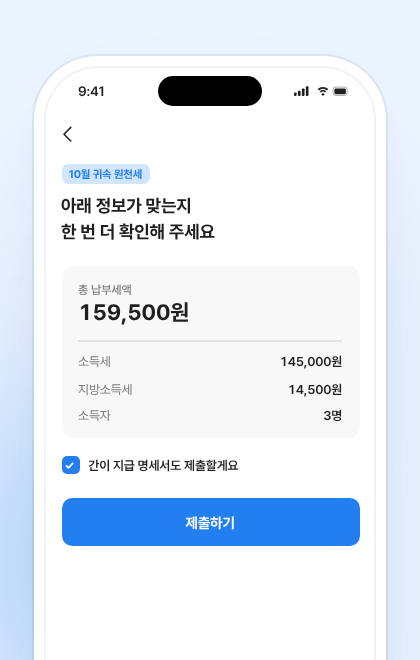
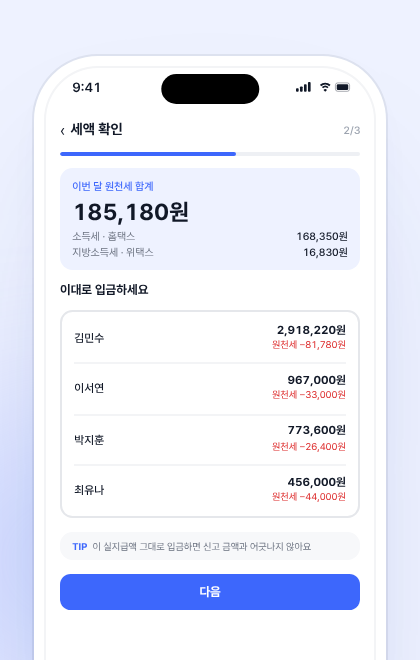
Rebuild mockups from the real app screens in the Figma design file
Screens 01 home through 05 filing complete are reproduced at 375px with
the file's own spacing, colors and type sizes, then zoomed into the
phone frames. Floating cards and backgrounds move to the file's blue.

Claude-Session: https://claude.ai/code/session_01XeTdt5mgBf16amy12iLBWn

diff --git a/images/_source/frames.html b/images/_source/frames.html
@@ -1,199 +1,199 @@
 <!doctype html><html lang="ko"><head><meta charset="utf-8">
 <link rel="stylesheet" href="../../fonts/pretendard/pretendardvariable-dynamic-subset.css">
 <style>
-/* 앱 화면은 실제 원클릭 원천세(oneclicktax.kr) 디자인 토큰으로 390px 기준으로 그린 뒤 zoom으로 폰에 맞춰 줄입니다.
-   그래서 글자 크기 비율이 실제 앱과 같습니다. 바깥 그래픽은 연파랑 단색 + 글래스모피즘 카드. */
-:root{--g900:#1F1F23;--g800:#3C3C42;--g700:#5A5A61;--g600:#78787F;--g500:#98989F;--g400:#B4B4BB;--g300:#CDCDD2;--g200:#E2E2E5;--g100:#F2F2F3;--g50:#F8F8F8;
---blue:#237EF0;--b100:#D1E5FF;--b50:#EBF4FF;--green:#00B235;--kakao:#FFD11B;--klabel:#493D0F}
+/* 앱 화면은 원클릭 원천세 Figma '화면 디자인' 페이지의 01~05 화면(375×812)을 값 그대로 옮겼습니다.
+   (fileKey 9Lp6P6A8XeNOBMYwLeIahE, node 38:9568 / 38:9601 / 38:9650 / 38:9698 / 38:9755)
+   375px 기준으로 그린 뒤 zoom으로 폰 크기에 맞춥니다. 상태바만 목업용으로 추가했습니다. */
+:root{--ink:#111827;--sub:#6B7280;--faint:#9CA3AF;--line:#E5E7EB;--div:#F3F4F6;--soft:#F7F8FA;--track:#EEF0F4;
+--blue:#3D67FC;--bwash:#EEF2FF;--bpale:#D6DFFF;--green:#059669;--gwash:#ECFDF5;--teal:#0F766E;--twash:#CCFBF1;--amber:#B45309;--awash:#FEF3C7;--red:#DC2626;
+--bg:#EEF2FF;--sky:#A9BCFF}
 *{box-sizing:border-box;margin:0;padding:0}
-body{font-family:"Pretendard Variable",Pretendard,sans-serif;color:var(--g900);background:#999;-webkit-font-smoothing:antialiased;display:flex;flex-wrap:wrap;align-items:flex-start}
-.f{position:relative;overflow:hidden;margin:20px;flex-shrink:0;background:var(--b50)}
+body{font-family:"Pretendard Variable",Pretendard,sans-serif;color:var(--ink);background:#999;-webkit-font-smoothing:antialiased;display:flex;flex-wrap:wrap;align-items:flex-start}
+.f{position:relative;overflow:hidden;margin:20px;flex-shrink:0;background:var(--bg)}
 .blob{position:absolute;border-radius:50%;filter:blur(40px)}
-.num{font-variant-numeric:tabular-nums}
 /* phone */
-.ph{position:absolute;background:#fff;box-shadow:0 0 0 1px rgba(20,40,80,.07),0 40px 80px -30px rgba(20,60,130,.25),0 12px 24px -12px rgba(20,60,130,.10)}
-.scr{position:relative;height:100%;overflow:hidden;background:#fff;box-shadow:inset 0 0 0 1px var(--g100)}
-/* ===== app (390 base) ===== */
-.app{width:390px;letter-spacing:-.01em}
-.st{height:54px;display:flex;align-items:center;justify-content:space-between;padding:6px 30px 0 40px;font-size:16px;font-weight:600;position:relative}
-.st .di{position:absolute;left:50%;top:11px;transform:translateX(-50%);width:122px;height:36px;border-radius:20px;background:#000}
-.nb{height:52px;display:flex;align-items:center;justify-content:space-between;padding:0 16px}
-.bd{padding:0 20px}
-.h21{font-size:21px;font-weight:700;line-height:1.45}
-.p15{font-size:15px;color:var(--g600);line-height:1.5}
-.lb{font-size:13px;color:var(--g600);font-weight:500}
+.ph{position:absolute;background:#fff;box-shadow:0 0 0 1px rgba(17,24,39,.07),0 40px 80px -30px rgba(40,60,160,.25),0 12px 24px -12px rgba(40,60,160,.10)}
+.scr{position:relative;height:100%;overflow:hidden;background:#fff;box-shadow:inset 0 0 0 1px var(--div)}
+/* ===== app (375 base, Figma 값 그대로) ===== */
+.app{width:375px;line-height:normal;font-variant-numeric:tabular-nums}
+.st{height:44px;display:flex;align-items:center;justify-content:space-between;padding:4px 26px 0 32px;font-size:15px;font-weight:600;position:relative}
+.st .di{position:absolute;left:50%;top:10px;transform:translateX(-50%);width:110px;height:32px;border-radius:18px;background:#000}
+.pg{display:flex;flex-direction:column;gap:14px;padding:16px 18px 28px}
 .row{display:flex;justify-content:space-between;align-items:center}
-.btn{height:56px;border-radius:12px;background:var(--blue);color:#fff;font-size:17px;font-weight:700;display:flex;align-items:center;justify-content:center;gap:8px}
-.chip{display:inline-flex;align-items:center;gap:4px;font-size:13px;font-weight:700;color:var(--blue);background:var(--b100);border-radius:8px;padding:5px 9px}
-.card{border-radius:14px;background:var(--g50);padding:18px 20px}
-.seg{display:flex;background:var(--g100);border-radius:12px;padding:4px}
-.seg div{flex:1;height:42px;border-radius:9px;display:grid;place-items:center;font-size:15px;font-weight:600;color:var(--g600)}
-.seg .on{background:#fff;color:var(--g900);font-weight:700;box-shadow:0 1px 3px rgba(0,0,0,.08)}
-.fld{border:1px solid var(--g200);border-radius:12px;height:54px;display:flex;align-items:center;padding:0 16px;font-size:17px;font-weight:600}
-.fld.on{border:1.5px solid var(--blue)}
-.ck{width:22px;height:22px;border-radius:6px;background:var(--blue);display:grid;place-items:center;color:#fff;flex-shrink:0}
-/* ===== glass ===== */
-.glass{position:absolute;background:rgba(255,255,255,.58);-webkit-backdrop-filter:blur(18px) saturate(170%);backdrop-filter:blur(18px) saturate(170%);
- border:1px solid rgba(255,255,255,.85);box-shadow:0 24px 48px -20px rgba(20,60,130,.28),0 2px 6px rgba(20,60,130,.05),inset 0 1px 0 rgba(255,255,255,.95)}
-.obj{position:absolute;filter:drop-shadow(0 16px 20px rgba(20,60,130,.14))}
+.col{display:flex;flex-direction:column}
+.b{font-weight:700}.m{font-weight:500}.r{font-weight:400}
+.ink{color:var(--ink)}.sub{color:var(--sub)}.faint{color:var(--faint)}.blue{color:var(--blue)}.red{color:var(--red)}
+.card{background:#fff;border:1px solid var(--line);border-radius:14px;padding:14px;display:flex;flex-direction:column}
+.soft{background:var(--soft);border-radius:14px;padding:14px;display:flex;flex-direction:column}
+.hr{height:1px;background:var(--div)}
+.btn{background:var(--blue);border-radius:12px;padding:13px 0;text-align:center;color:#fff;font-size:14px;font-weight:700}
+.tag{display:inline-block;align-self:flex-start;border-radius:99px;padding:3px 8px;font-size:11px;font-weight:500}
+.t-blue{background:var(--bwash);color:var(--blue)}.t-teal{background:var(--twash);color:var(--teal)}.t-amber{background:var(--awash);color:var(--amber)}.t-green{background:var(--gwash);color:var(--green)}.t-gray{background:var(--div);color:var(--sub)}
+.head{display:flex;justify-content:space-between;align-items:center}
+.head .l{display:flex;gap:6px;align-items:center;color:var(--ink)}
+.track{height:5px;border-radius:99px;background:var(--track);position:relative;overflow:hidden}
+.track i{position:absolute;left:0;top:0;height:5px;border-radius:99px;background:var(--blue)}
+/* ===== glass (목업용 떠 있는 카드, 같은 토큰) ===== */
+.glass{position:absolute;background:rgba(255,255,255,.62);-webkit-backdrop-filter:blur(18px) saturate(170%);backdrop-filter:blur(18px) saturate(170%);
+ border:1px solid rgba(255,255,255,.88);box-shadow:0 24px 48px -20px rgba(40,60,160,.28),0 2px 6px rgba(40,60,160,.05),inset 0 1px 0 rgba(255,255,255,.95)}
+.obj{position:absolute;filter:drop-shadow(0 16px 20px rgba(40,60,160,.14))}
 </style></head><body>
 <svg width="0" height="0" style="position:absolute"><defs>
- <symbol id="stat" viewBox="0 0 64 12"><g fill="#1F1F23"><rect x="0" y="7" width="3" height="4" rx="1"/><rect x="4.5" y="5" width="3" height="6" rx="1"/><rect x="9" y="2.5" width="3" height="8.5" rx="1"/><rect x="13.5" y="0" width="3" height="11" rx="1"/>
+ <symbol id="stat" viewBox="0 0 64 12"><g fill="#111827"><rect x="0" y="7" width="3" height="4" rx="1"/><rect x="4.5" y="5" width="3" height="6" rx="1"/><rect x="9" y="2.5" width="3" height="8.5" rx="1"/><rect x="13.5" y="0" width="3" height="11" rx="1"/>
  <path d="M27 3.2a9 9 0 0 1 12 0l-1.4 1.5a7 7 0 0 0-9.2 0zM29.2 5.6a5.6 5.6 0 0 1 7.6 0l-1.4 1.5a3.6 3.6 0 0 0-4.8 0zM33 11l-2-2.1a2.8 2.8 0 0 1 4 0z"/>
- <rect x="44.5" y="1" width="16" height="9.5" rx="2.6" fill="none" stroke="#1F1F23" stroke-opacity=".4" stroke-width="1"/><rect x="46" y="2.5" width="13" height="6.5" rx="1.4"/></g></symbol>
- <symbol id="chk" viewBox="0 0 14 14"><path d="M3 7.3l2.6 2.6L11 4.4" fill="none" stroke="currentColor" stroke-width="2.2" stroke-linecap="round" stroke-linejoin="round"/></symbol>
- <symbol id="back" viewBox="0 0 24 24"><path d="M15 4l-8 8 8 8" fill="none" stroke="#1F1F23" stroke-width="1.8" stroke-linecap="round" stroke-linejoin="round"/></symbol>
- <symbol id="x" viewBox="0 0 24 24"><path d="M5 5l14 14M19 5L5 19" fill="none" stroke="#1F1F23" stroke-width="1.8" stroke-linecap="round"/></symbol>
- <symbol id="arr" viewBox="0 0 24 24"><path d="M9 5l7 7-7 7" fill="none" stroke="#B4B4BB" stroke-width="2" stroke-linecap="round" stroke-linejoin="round"/></symbol>
- <symbol id="kakao" viewBox="0 0 20 18"><path d="M10 1C4.8 1 1 4.2 1 8.1c0 2.5 1.6 4.7 4.1 5.9l-1 3.7 4.2-2.8c.6.1 1.1.1 1.7.1 5.2 0 9-3.2 9-7.1S15.2 1 10 1z" fill="#1F1F23"/></symbol>
+ <rect x="44.5" y="1" width="16" height="9.5" rx="2.6" fill="none" stroke="#111827" stroke-opacity=".4" stroke-width="1"/><rect x="46" y="2.5" width="13" height="6.5" rx="1.4"/></g></symbol>
 </defs></svg>
+
+<template id="s01"><!-- 01 홈 -->
+<div class="app"><div class="st"><span>9:41</span><i class="di"></i><svg width="64" height="12"><use href="#stat"/></svg></div>
+<div class="pg">
+ <div class="row"><span class="b" style="font-size:20px">원천세</span><span class="m sub" style="font-size:12px">2026년 7월</span></div>
+ <div style="background:var(--blue);border-radius:14px;padding:16px 14px;display:flex;flex-direction:column;gap:5px"><span class="b" style="font-size:15px;color:#fff">6월 귀속분 신고 마감 D-5</span><span class="r" style="font-size:12px;color:var(--bpale)">7월 10일(금)까지 신고·납부해야 해요</span></div>
+ <div class="card" style="gap:10px">
+  <span class="m sub" style="font-size:12px">이번 달 낼 원천세</span><span class="b" style="font-size:26px">185,180원</span><div class="hr"></div>
+  <div class="row" style="font-size:12px"><span class="r sub">소득세 · 홈택스</span><span class="m">168,350원</span></div>
+  <div class="row" style="font-size:12px"><span class="r sub">지방소득세 · 위택스</span><span class="m">16,830원</span></div>
+  <div class="row" style="font-size:12px"><span class="r sub">지급 대상</span><span class="m">4명</span></div>
+ </div>
+ <div class="btn">신고 시작하기</div>
+ <span class="b" style="font-size:14px">지난 신고</span>
+ <div class="soft" style="gap:10px">
+  <div class="row"><span class="m" style="font-size:12px">5월 귀속분</span><span class="tag t-green">신고·납부 완료</span></div>
+  <div style="height:1px;background:var(--line)"></div>
+  <div class="row"><span class="m" style="font-size:12px">4월 귀속분</span><span class="tag t-green">신고·납부 완료</span></div>
+ </div>
+</div></div></template>
+
+<template id="s02"><!-- 02 지급 내역 확인 -->
+<div class="app"><div class="st"><span>9:41</span><i class="di"></i><svg width="64" height="12"><use href="#stat"/></svg></div>
+<div class="pg">
+ <div class="head"><div class="l"><span class="r" style="font-size:18px">‹</span><span class="b" style="font-size:16px">지급 내역 확인</span></div><span class="m faint" style="font-size:12px">1/3</span></div>
+ <div class="track"><i style="width:99px"></i></div>
+ <span class="r sub" style="font-size:12px">6월에 지급한 내역이 맞는지 확인해 주세요</span>
+ <div class="card" style="gap:12px">
+  <div class="row"><div class="col" style="gap:5px"><span class="b" style="font-size:14px">김민수</span><span class="tag t-blue">근로소득</span></div><div class="col" style="gap:3px;align-items:flex-end"><span class="b" style="font-size:14px">3,000,000원</span><span class="r sub" style="font-size:11px">원천세 81,780원</span></div></div><div class="hr"></div>
+  <div class="row"><div class="col" style="gap:5px"><span class="b" style="font-size:14px">이서연</span><span class="tag t-teal">사업소득 3.3%</span></div><div class="col" style="gap:3px;align-items:flex-end"><span class="b" style="font-size:14px">1,000,000원</span><span class="r sub" style="font-size:11px">원천세 33,000원</span></div></div><div class="hr"></div>
+  <div class="row"><div class="col" style="gap:5px"><span class="b" style="font-size:14px">박지훈</span><span class="tag t-teal">사업소득 3.3%</span></div><div class="col" style="gap:3px;align-items:flex-end"><span class="b" style="font-size:14px">800,000원</span><span class="r sub" style="font-size:11px">원천세 26,400원</span></div></div><div class="hr"></div>
+  <div class="row"><div class="col" style="gap:5px"><span class="b" style="font-size:14px">최유나</span><span class="tag t-amber">기타소득 8.8%</span></div><div class="col" style="gap:3px;align-items:flex-end"><span class="b" style="font-size:14px">500,000원</span><span class="r sub" style="font-size:11px">원천세 44,000원</span></div></div>
+ </div>
+ <div style="border:1px dashed var(--blue);border-radius:14px;padding:10px 14px;text-align:center" class="m blue"><span style="font-size:13px">+ 지급 대상 추가</span></div>
+ <div class="btn">다음</div>
+</div></div></template>
+
+<template id="s03"><!-- 03 세액 확인 -->
+<div class="app"><div class="st"><span>9:41</span><i class="di"></i><svg width="64" height="12"><use href="#stat"/></svg></div>
+<div class="pg">
+ <div class="head"><div class="l"><span class="r" style="font-size:18px">‹</span><span class="b" style="font-size:16px">세액 확인</span></div><span class="m faint" style="font-size:12px">2/3</span></div>
+ <div class="track"><i style="width:198px"></i></div>
+ <div style="background:var(--bwash);border-radius:14px;padding:14px;display:flex;flex-direction:column;gap:5px">
+  <span class="m blue" style="font-size:12px">이번 달 원천세 합계</span><span class="b" style="font-size:26px">185,180원</span>
+  <div class="row" style="font-size:12px"><span class="r sub">소득세 · 홈택스</span><span class="m">168,350원</span></div>
+  <div class="row" style="font-size:12px"><span class="r sub">지방소득세 · 위택스</span><span class="m">16,830원</span></div>
+ </div>
+ <span class="b" style="font-size:14px">이대로 입금하세요</span>
+ <div class="card" style="gap:12px">
+  <div class="row"><span class="m" style="font-size:13px">김민수</span><div class="col" style="gap:3px;align-items:flex-end"><span class="b" style="font-size:13px">2,918,220원</span><span class="r red" style="font-size:11px">원천세 −81,780원</span></div></div><div class="hr"></div>
+  <div class="row"><span class="m" style="font-size:13px">이서연</span><div class="col" style="gap:3px;align-items:flex-end"><span class="b" style="font-size:13px">967,000원</span><span class="r red" style="font-size:11px">원천세 −33,000원</span></div></div><div class="hr"></div>
+  <div class="row"><span class="m" style="font-size:13px">박지훈</span><div class="col" style="gap:3px;align-items:flex-end"><span class="b" style="font-size:13px">773,600원</span><span class="r red" style="font-size:11px">원천세 −26,400원</span></div></div><div class="hr"></div>
+  <div class="row"><span class="m" style="font-size:13px">최유나</span><div class="col" style="gap:3px;align-items:flex-end"><span class="b" style="font-size:13px">456,000원</span><span class="r red" style="font-size:11px">원천세 −44,000원</span></div></div>
+ </div>
+ <div style="background:var(--soft);border-radius:14px;padding:10px 14px;display:flex;gap:6px;font-size:11px"><span class="b blue">TIP</span><span class="r sub">이 실지급액 그대로 입금하면 신고 금액과 어긋나지 않아요</span></div>
+ <div class="btn">다음</div>
+</div></div></template>
+
+<template id="s04"><!-- 04 신고서 확인 -->
+<div class="app"><div class="st"><span>9:41</span><i class="di"></i><svg width="64" height="12"><use href="#stat"/></svg></div>
+<div class="pg">
+ <div class="head"><div class="l"><span class="r" style="font-size:18px">‹</span><span class="b" style="font-size:16px">신고서 확인</span></div><span class="m faint" style="font-size:12px">3/3</span></div>
+ <div class="track"><i style="width:300px"></i></div>
+ <div class="soft" style="gap:6px;font-size:12px">
+  <div class="row"><span class="r sub">귀속연월</span><span class="m">2026.06</span></div>
+  <div class="row"><span class="r sub">지급연월</span><span class="m">2026.06</span></div>
+  <div class="row"><span class="r sub">신고 구분</span><span class="m">정기신고</span></div>
+ </div>
+ <div class="card" style="gap:12px">
+  <div class="row"><div class="col" style="gap:4px"><div style="display:flex;gap:6px;align-items:center"><span class="m" style="font-size:12px">근로소득 간이세액</span><span class="tag t-gray">A01</span></div><span class="r sub" style="font-size:11px">1명 · 지급 3,000,000원</span></div><span class="b" style="font-size:13px">74,350원</span></div><div class="hr"></div>
+  <div class="row"><div class="col" style="gap:4px"><div style="display:flex;gap:6px;align-items:center"><span class="m" style="font-size:12px">사업소득</span><span class="tag t-gray">A25</span></div><span class="r sub" style="font-size:11px">2명 · 지급 1,800,000원</span></div><span class="b" style="font-size:13px">54,000원</span></div><div class="hr"></div>
+  <div class="row"><div class="col" style="gap:4px"><div style="display:flex;gap:6px;align-items:center"><span class="m" style="font-size:12px">기타소득</span><span class="tag t-gray">A42</span></div><span class="r sub" style="font-size:11px">1명 · 지급 500,000원</span></div><span class="b" style="font-size:13px">40,000원</span></div><div class="hr"></div>
+  <div class="row"><div class="col" style="gap:4px"><div style="display:flex;gap:6px;align-items:center"><span class="b blue" style="font-size:12px">총합계</span><span class="tag t-blue">A99</span></div><span class="r sub" style="font-size:11px">4명 · 지급 5,300,000원</span></div><span class="b blue" style="font-size:13px">168,350원</span></div>
+ </div>
+ <span class="r sub" style="font-size:11px">홈택스 원천징수이행상황신고서와 같은 항목이라 그대로 옮겨 적을 수 있어요</span>
+ <div class="btn">신고서 제출하기</div>
+</div></div></template>
+
+<template id="s05"><!-- 05 신고 완료 · 납부 -->
+<div class="app"><div class="st"><span>9:41</span><i class="di"></i><svg width="64" height="12"><use href="#stat"/></svg></div>
+<div class="pg">
+ <div class="col" style="gap:8px;align-items:center;padding:16px 0 6px">
+  <div style="width:56px;height:56px;border-radius:28px;background:var(--gwash);display:grid;place-items:center" class="b"><span style="font-size:24px;color:var(--green)">✓</span></div>
+  <span class="b" style="font-size:18px">6월 귀속분 신고 완료</span><span class="r sub" style="font-size:12px">이제 세금 납부만 하면 끝이에요</span>
+ </div>
+ <div class="card" style="gap:10px">
+  <div class="row"><div class="col" style="gap:3px"><span class="b" style="font-size:13px">소득세 · 국세</span><span class="r sub" style="font-size:11px">홈택스 가상계좌</span></div><span class="b" style="font-size:14px">168,350원</span></div>
+  <div class="row"><span class="tag t-green">납부 완료</span><span class="r sub" style="font-size:11px">7월 5일 14:02</span></div>
+ </div>
+ <div class="card" style="gap:10px;border-color:var(--blue)">
+  <div class="row"><div class="col" style="gap:3px"><span class="b" style="font-size:13px">지방소득세 · 지방세</span><span class="r sub" style="font-size:11px">위택스 가상계좌</span></div><span class="b" style="font-size:14px">16,830원</span></div>
+  <div class="btn" style="border-radius:10px;padding:10px 0;font-size:12px">납부하기</div>
+ </div>
+ <div style="background:var(--soft);border-radius:14px;padding:10px 14px" class="row"><span class="r sub" style="font-size:12px">납부 기한</span><span class="m" style="font-size:12px">7월 10일 (금)</span></div>
+ <div style="border:1px solid var(--line);border-radius:12px;padding:13px 0;text-align:center" class="m"><span style="font-size:14px">홈으로</span></div>
+</div></div></template>
 
 <!-- ================= HERO 520x560 ================= -->
 <div class="f" id="hero" style="width:520px;height:560px">
-  <div class="blob" style="width:260px;height:260px;background:#9CC9FF;opacity:.55;left:-60px;top:250px"></div>
-  <div class="blob" style="width:220px;height:220px;background:#237EF0;opacity:.22;right:-40px;top:-40px"></div>
-  <div class="ph" style="left:200px;top:56px;width:280px;height:560px;border-radius:46px;padding:7px"><div class="scr" style="border-radius:39px"><div class="app" style="zoom:.682">
-    <div class="st"><span>9:41</span><i class="di"></i><svg width="66" height="13"><use href="#stat"/></svg></div>
-    <div class="nb"><span></span><svg width="24" height="24"><use href="#x"/></svg></div>
-    <div class="bd" style="text-align:center;padding-top:28px">
-      <img src="3d/doc-check.png" style="width:88px;height:88px">
-      <div class="h21" style="margin-top:20px">10월 원천세 신고가<br>접수됐어요</div>
-      <div class="p15" style="margin-top:8px">처리 상태는 홈에서 확인할 수 있어요</div>
-    </div>
-    <div class="bd" style="margin-top:32px">
-      <div class="card num" style="font-size:15px">
-        <div class="row"><span class="lb" style="font-size:15px">총 납부세액</span><b style="font-size:19px;color:var(--blue)">159,500원</b></div>
-        <div style="height:1px;background:var(--g200);margin:16px 0"></div>
-        <div class="row" style="margin-bottom:12px"><span style="color:var(--g600)">소득세</span><span style="font-weight:600">145,000원</span></div>
-        <div class="row" style="margin-bottom:12px"><span style="color:var(--g600)">지방소득세</span><span style="font-weight:600">14,500원</span></div>
-        <div class="row"><span style="color:var(--g600)">소득자</span><span style="font-weight:600">3명</span></div>
-      </div>
-      <div style="display:flex;align-items:center;gap:8px;margin-top:16px;font-size:14px;color:var(--g700)"><svg width="16" height="16" style="color:var(--green)"><use href="#chk"/></svg>간이 지급 명세서도 함께 제출했어요</div>
-      <div class="btn" style="margin-top:28px">홈으로 가기</div>
-    </div>
-  </div></div></div>
-  <!-- glass notification -->
-  <div class="glass" style="left:26px;top:178px;width:236px;padding:13px 14px;border-radius:20px;display:flex;gap:10px;align-items:center">
-    <div style="width:34px;height:34px;border-radius:10px;background:var(--blue);display:grid;place-items:center;color:#fff;flex-shrink:0"><svg width="16" height="16"><use href="#chk"/></svg></div>
+  <div class="blob" style="width:260px;height:260px;background:var(--sky);opacity:.5;left:-60px;top:250px"></div>
+  <div class="blob" style="width:220px;height:220px;background:var(--blue);opacity:.16;right:-40px;top:-40px"></div>
+  <div class="ph" style="left:200px;top:56px;width:280px;height:560px;border-radius:46px;padding:7px"><div class="scr" style="border-radius:39px" data-screen="s05" data-zoom="0.709"></div></div>
+  <div class="glass" style="left:22px;top:92px;width:236px;padding:13px 14px;border-radius:18px;display:flex;gap:10px;align-items:center">
+    <div style="width:34px;height:34px;border-radius:10px;background:var(--blue);display:grid;place-items:center;color:#fff;flex-shrink:0;font-weight:700;font-size:15px">✓</div>
     <div style="flex:1;min-width:0">
-      <div class="row" style="font-size:10.5px;color:var(--g600)"><span style="font-weight:600">원클릭 원천세</span><span>지금</span></div>
-      <div style="font-size:12.5px;font-weight:700;margin-top:2px;letter-spacing:-.02em">홈택스 신고가 접수됐어요</div>
-      <div style="font-size:11px;color:var(--g700);margin-top:1px" class="num">총 납부세액 159,500원</div>
+      <div class="row" style="font-size:10.5px;color:var(--sub)"><span class="m">원클릭 원천세</span><span>지금</span></div>
+      <div class="b" style="font-size:12.5px;margin-top:2px">홈택스 신고가 접수됐어요</div>
+      <div class="r" style="font-size:11px;color:var(--sub);margin-top:1px">6월 귀속분 · 185,180원</div>
     </div>
   </div>
 </div>
 
 <!-- ================= STEPS 210x330 ================= -->
-<div class="f" id="step-1" style="width:210px;height:330px">
-  <div class="blob" style="width:160px;height:160px;background:#9CC9FF;opacity:.5;left:-50px;top:200px"></div>
-  <div class="ph" style="left:17px;top:28px;width:176px;height:360px;border-radius:32px;padding:5px"><div class="scr" style="border-radius:27px"><div class="app" style="zoom:.426">
-    <div class="st"><span>9:41</span><i class="di"></i><svg width="66" height="13"><use href="#stat"/></svg></div>
-    <div class="nb"><svg width="24" height="24"><use href="#back"/></svg><svg width="24" height="24"><use href="#x"/></svg></div>
-    <div class="bd" style="text-align:center;padding-top:20px">
-      <img src="3d/coin.png" style="width:96px;height:96px">
-      <div class="h21" style="color:var(--blue);margin-top:18px">원클릭 원천세</div>
-      <div class="h21" style="margin-top:10px">원천세 직접 신고, 원클릭으로</div>
-      <div class="p15" style="margin-top:8px">처음이어도 쉽게 시작할 수 있어요</div>
-      <div style="margin-top:44px"><span class="chip" style="padding:8px 14px">지금 시작해 볼까요?</span></div>
-      <div class="btn" style="margin-top:12px;background:var(--kakao);color:var(--g900)"><svg width="22" height="20"><use href="#kakao"/></svg>카카오 로그인</div>
-    </div>
-  </div></div></div>
-</div>
-
-<div class="f" id="step-2" style="width:210px;height:330px">
-  <div class="blob" style="width:160px;height:160px;background:#9CC9FF;opacity:.5;left:-50px;top:200px"></div>
-  <div class="ph" style="left:17px;top:28px;width:176px;height:360px;border-radius:32px;padding:5px"><div class="scr" style="border-radius:27px"><div class="app" style="zoom:.426">
-    <div class="st"><span>9:41</span><i class="di"></i><svg width="66" height="13"><use href="#stat"/></svg></div>
-    <div class="nb"><svg width="24" height="24"><use href="#back"/></svg><span></span></div>
-    <div class="bd" style="padding-top:8px">
-      <div class="h21">소득자를 한 분씩<br>추가해 주세요</div>
-      <div class="lb" style="margin-top:28px;margin-bottom:8px">어떤 소득자 인가요?</div>
-      <div class="seg"><div class="on">사업 소득</div><div>기타 소득</div></div>
-      <div class="lb" style="margin-top:24px;margin-bottom:8px">이름</div>
-      <div class="fld">김민지</div>
-      <div class="row" style="margin-top:24px;margin-bottom:8px"><span class="lb" style="color:var(--blue);font-weight:700">지급액</span><span style="font-size:13px;color:var(--g600)"><b style="color:var(--g900)">세전 금액</b> · 세후 금액</span></div>
-      <div class="fld on num" style="justify-content:space-between">1,500,000<span style="font-weight:500;color:var(--g600)">원</span></div>
-      <div class="row num" style="margin-top:10px;font-size:13px"><span style="color:var(--g600)">세후 금액</span><b>1,450,500원</b></div>
-      <div class="btn" style="margin-top:32px">저장하기</div>
-    </div>
-  </div></div></div>
-</div>
-
-<div class="f" id="step-3" style="width:210px;height:330px">
-  <div class="blob" style="width:160px;height:160px;background:#9CC9FF;opacity:.5;left:-50px;top:200px"></div>
-  <div class="ph" style="left:17px;top:28px;width:176px;height:360px;border-radius:32px;padding:5px"><div class="scr" style="border-radius:27px"><div class="app" style="zoom:.426">
-    <div class="st"><span>9:41</span><i class="di"></i><svg width="66" height="13"><use href="#stat"/></svg></div>
-    <div class="nb"><svg width="24" height="24"><use href="#back"/></svg><span></span></div>
-    <div class="bd" style="padding-top:8px">
-      <span class="chip">10월 귀속 원천세</span>
-      <div class="h21" style="margin-top:12px">아래 정보가 맞는지<br>한 번 더 확인해 주세요</div>
-      <div class="card num" style="margin-top:24px;font-size:15px">
-        <div class="lb" style="font-size:14px">총 납부세액</div>
-        <div style="font-size:26px;font-weight:700;margin-top:4px">159,500원</div>
-        <div style="height:1px;background:var(--g200);margin:16px 0"></div>
-        <div class="row" style="margin-bottom:12px"><span style="color:var(--g600)">소득세</span><span style="font-weight:600">145,000원</span></div>
-        <div class="row" style="margin-bottom:12px"><span style="color:var(--g600)">지방소득세</span><span style="font-weight:600">14,500원</span></div>
-        <div class="row"><span style="color:var(--g600)">소득자</span><span style="font-weight:600">3명</span></div>
-      </div>
-      <div style="display:flex;gap:10px;align-items:center;margin-top:20px;font-size:15px;font-weight:600"><span class="ck"><svg width="13" height="13"><use href="#chk"/></svg></span>간이 지급 명세서도 제출할게요</div>
-      <div class="btn" style="margin-top:28px">제출하기</div>
-    </div>
-  </div></div></div>
-</div>
+<div class="f" id="step-1" style="width:210px;height:330px"><div class="blob" style="width:160px;height:160px;background:var(--sky);opacity:.45;left:-50px;top:200px"></div>
+  <div class="ph" style="left:17px;top:28px;width:176px;height:360px;border-radius:32px;padding:5px"><div class="scr" style="border-radius:27px" data-screen="s01" data-zoom="0.443"></div></div></div>
+<div class="f" id="step-2" style="width:210px;height:330px"><div class="blob" style="width:160px;height:160px;background:var(--sky);opacity:.45;left:-50px;top:200px"></div>
+  <div class="ph" style="left:17px;top:28px;width:176px;height:360px;border-radius:32px;padding:5px"><div class="scr" style="border-radius:27px" data-screen="s02" data-zoom="0.443"></div></div></div>
+<div class="f" id="step-3" style="width:210px;height:330px"><div class="blob" style="width:160px;height:160px;background:var(--sky);opacity:.45;left:-50px;top:200px"></div>
+  <div class="ph" style="left:17px;top:28px;width:176px;height:360px;border-radius:32px;padding:5px"><div class="scr" style="border-radius:27px" data-screen="s03" data-zoom="0.443"></div></div></div>
 
 <!-- ================= FEATURE CALC 380x460 ================= -->
 <div class="f" id="feature-calc" style="width:380px;height:460px">
-  <div class="blob" style="width:240px;height:240px;background:#9CC9FF;opacity:.55;left:-70px;top:260px"></div>
-  <div class="blob" style="width:200px;height:200px;background:#237EF0;opacity:.2;right:-50px;top:-30px"></div>
-  <div class="ph" style="left:78px;top:54px;width:224px;height:480px;border-radius:40px;padding:6px"><div class="scr" style="border-radius:34px"><div class="app" style="zoom:.544">
-    <div class="st"><span>9:41</span><i class="di"></i><svg width="66" height="13"><use href="#stat"/></svg></div>
-    <div class="nb"><svg width="24" height="24"><use href="#back"/></svg><span></span></div>
-    <div class="bd" style="padding-top:4px">
-      <span class="chip">10월 귀속 원천세</span>
-      <div class="h21" style="margin-top:12px">지급 내역을 확인해 주세요</div>
-      <div class="num" style="margin-top:20px">
-        <div class="row" style="padding:14px 0;border-bottom:1px solid var(--g100)"><div><div style="font-size:16px;font-weight:600">김민지</div><div style="font-size:13px;color:var(--g600);margin-top:3px">사업 소득 · 3.3%</div></div><div style="text-align:right"><div style="font-size:16px;font-weight:600">1,500,000원</div><div style="font-size:13px;color:var(--g600);margin-top:3px">세금 49,500원</div></div></div>
-        <div class="row" style="padding:14px 0;border-bottom:1px solid var(--g100)"><div><div style="font-size:16px;font-weight:600">박준호</div><div style="font-size:13px;color:var(--g600);margin-top:3px">사업 소득 · 3.3%</div></div><div style="text-align:right"><div style="font-size:16px;font-weight:600">2,000,000원</div><div style="font-size:13px;color:var(--g600);margin-top:3px">세금 66,000원</div></div></div>
-      </div>
-    </div>
-  </div></div></div>
-  <!-- glass pop-out -->
-  <div class="glass" style="left:44px;top:238px;width:292px;padding:18px 20px;border-radius:20px">
-    <div class="row"><div><div style="font-size:14px;font-weight:700">이서연</div><div style="font-size:11.5px;color:var(--g600);margin-top:2px" class="num">기타 소득 · 지급액 500,000원</div></div><span class="chip" style="font-size:11px;padding:4px 8px">8.8% 자동 적용</span></div>
-    <div class="num" style="margin-top:12px;font-size:12px;border-top:1px solid rgba(31,31,35,.08);padding-top:10px">
-      <div class="row" style="padding:4px 0"><span style="color:var(--g600)">소득세</span><span style="font-weight:600">40,000원</span></div>
-      <div class="row" style="padding:4px 0"><span style="color:var(--g600)">지방소득세</span><span style="font-weight:600">4,000원</span></div>
-      <div class="row" style="padding:8px 0 0"><span style="color:var(--g700);font-weight:600">세후 금액</span><b style="font-size:16px;color:var(--blue)">456,000원</b></div>
-    </div>
+  <div class="blob" style="width:240px;height:240px;background:var(--sky);opacity:.5;left:-70px;top:260px"></div>
+  <div class="blob" style="width:200px;height:200px;background:var(--blue);opacity:.14;right:-50px;top:-30px"></div>
+  <div class="ph" style="left:78px;top:54px;width:224px;height:480px;border-radius:40px;padding:6px"><div class="scr" style="border-radius:34px" data-screen="s02" data-zoom="0.565"></div></div>
+  <div class="glass" style="left:44px;top:262px;width:292px;padding:16px 18px;border-radius:16px">
+    <div class="row"><div class="col" style="gap:5px"><span class="b" style="font-size:14px">최유나 · 강연료</span><span class="tag t-amber">기타소득 8.8%</span></div><div class="col" style="gap:3px;align-items:flex-end"><span class="b" style="font-size:14px">500,000원</span><span class="r sub" style="font-size:11px">지급액</span></div></div>
+    <div style="height:1px;background:rgba(17,24,39,.08);margin:12px 0 8px"></div>
+    <div class="row" style="font-size:12px;padding:3px 0"><span class="r sub">소득세 (필요경비 60% 제외 후 20%)</span><span class="m">40,000원</span></div>
+    <div class="row" style="font-size:12px;padding:3px 0"><span class="r sub">지방소득세</span><span class="m">4,000원</span></div>
+    <div class="row" style="padding:8px 0 0"><span class="b" style="font-size:12px">실지급액</span><span class="b blue" style="font-size:16px">456,000원</span></div>
   </div>
-  <img class="obj" src="3d/calculator.png" style="right:14px;top:84px;width:86px;transform:rotate(8deg)">
+  <img class="obj" src="3d/calculator.png" style="right:14px;top:84px;width:80px;transform:rotate(8deg)">
 </div>
 
 <!-- ================= FEATURE HOMETAX 380x460 ================= -->
 <div class="f" id="feature-hometax" style="width:380px;height:460px">
-  <div class="blob" style="width:240px;height:240px;background:#9CC9FF;opacity:.55;right:-70px;top:250px"></div>
-  <div class="blob" style="width:200px;height:200px;background:#237EF0;opacity:.2;left:-50px;top:-30px"></div>
-  <div class="ph" style="left:78px;top:54px;width:224px;height:480px;border-radius:40px;padding:6px"><div class="scr" style="border-radius:34px"><div class="app" style="zoom:.544">
-    <div class="st"><span>9:41</span><i class="di"></i><svg width="66" height="13"><use href="#stat"/></svg></div>
-    <div class="nb"><svg width="24" height="24"><use href="#back"/></svg><span></span></div>
-    <div class="bd" style="padding-top:4px">
-      <div class="h21">신고 내역</div>
-      <div class="num" style="margin-top:16px">
-        <div class="row" style="padding:16px 0;border-bottom:1px solid var(--g100)"><div><div style="font-size:16px;font-weight:600">9월 귀속 원천세</div><div style="font-size:13px;color:var(--g600);margin-top:3px">총 납부세액 99,000원</div></div><div style="display:flex;align-items:center;gap:4px;font-size:13px;color:var(--green);font-weight:600">신고 완료<svg width="18" height="18"><use href="#arr"/></svg></div></div>
-        <div class="row" style="padding:16px 0;border-bottom:1px solid var(--g100)"><div><div style="font-size:16px;font-weight:600">8월 귀속 원천세</div><div style="font-size:13px;color:var(--g600);margin-top:3px">총 납부세액 115,500원</div></div><div style="display:flex;align-items:center;gap:4px;font-size:13px;color:var(--green);font-weight:600">신고 완료<svg width="18" height="18"><use href="#arr"/></svg></div></div>
-      </div>
-    </div>
-  </div></div></div>
-  <!-- glass pop-out -->
-  <div class="glass" style="left:44px;top:222px;width:292px;padding:18px 20px;border-radius:20px">
-    <div class="row"><div style="font-size:14px;font-weight:700">10월 귀속 원천세</div><span class="chip" style="font-size:11px;padding:4px 8px;background:#DDF5E4;color:#00962C"><svg width="10" height="10"><use href="#chk"/></svg>신고 완료</span></div>
-    <div style="font-size:11.5px;color:var(--g600);margin-top:2px" class="num">총 납부세액 159,500원 · 소득자 3명</div>
-    <div style="margin-top:12px;font-size:12px;border-top:1px solid rgba(31,31,35,.08);padding-top:6px">
-      <div class="row" style="padding:6px 0"><span style="font-weight:600">원천징수이행상황신고서</span><span style="color:var(--g600);font-size:11px">접수증 · 납부서</span></div>
-      <div class="row" style="padding:6px 0"><span style="font-weight:600">지방소득세 신고서</span><span style="color:var(--g600);font-size:11px">접수증 · 납부서</span></div>
-      <div class="row" style="padding:6px 0"><span style="font-weight:600">간이 지급 명세서</span><span style="color:var(--g600);font-size:11px">접수증</span></div>
-    </div>
+  <div class="blob" style="width:240px;height:240px;background:var(--sky);opacity:.5;right:-70px;top:250px"></div>
+  <div class="blob" style="width:200px;height:200px;background:var(--blue);opacity:.14;left:-50px;top:-30px"></div>
+  <div class="ph" style="left:78px;top:54px;width:224px;height:480px;border-radius:40px;padding:6px"><div class="scr" style="border-radius:34px" data-screen="s04" data-zoom="0.565"></div></div>
+  <div class="glass" style="left:44px;top:262px;width:292px;padding:16px 18px;border-radius:16px">
+    <div class="row"><span class="b" style="font-size:14px">6월 귀속분 원천세</span><span class="tag t-green">✓ 홈택스 접수 완료</span></div>
+    <span class="r sub" style="font-size:11px;display:block;margin-top:3px">7월 5일 14:02 · 총합계 168,350원</span>
+    <div style="height:1px;background:rgba(17,24,39,.08);margin:12px 0 6px"></div>
+    <div class="row" style="font-size:12px;padding:4px 0"><span class="m">원천징수이행상황신고서</span><span class="r sub" style="font-size:11px">접수증 · 납부서</span></div>
+    <div class="row" style="font-size:12px;padding:4px 0"><span class="m">지방소득세 신고서</span><span class="r sub" style="font-size:11px">접수증 · 납부서</span></div>
+    <div class="row" style="font-size:12px;padding:4px 0"><span class="m">간이지급명세서</span><span class="r sub" style="font-size:11px">접수증</span></div>
   </div>
-  <img class="obj" src="3d/plane.png" style="left:18px;top:34px;width:92px">
+  <img class="obj" src="3d/plane.png" style="left:18px;top:34px;width:88px">
 </div>
+<script>
+for(const el of document.querySelectorAll('[data-screen]')){const t=document.getElementById(el.dataset.screen);const c=t.content.firstElementChild.cloneNode(true);c.style.zoom=el.dataset.zoom;el.appendChild(c);}
+</script>
 </body></html>
